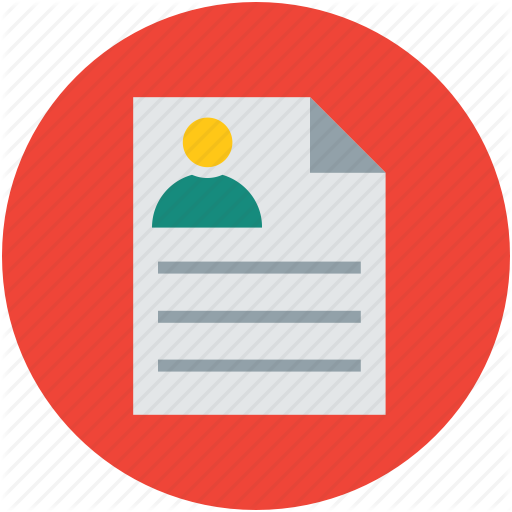
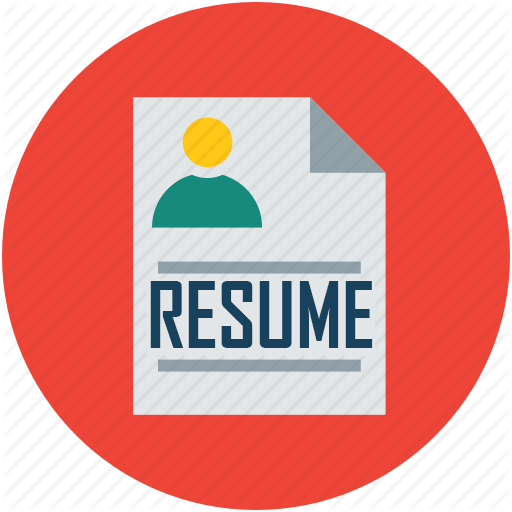
milking the vet thing

Changed region(s): [[0.2812, 0.5312, 0.75, 0.6875]]

diff --git a/index.html b/index.html
@@ -78,8 +78,10 @@
 						<li>
 							<a href="#contact">Contact</a>
 						</li>
-						<li>
-							<a href="https://github.com/joashp/material-design-template" target="_blank">Download</a>
+						<li class="download">
+							<a href="public/img/resume.docx" download="Ismael_Barba">
+								<img border="0" src="public/img/resume2.png" alt="Resume" width="104" height="104">
+							</a>
 						</li>
 					</ul>
 					<a href="#" data-activates="nav-mobile" class="button-collapse">
@@ -115,12 +117,16 @@
 					</h2>
 				</div>
 
-				<div class="col s12 m4 l4">
+				<div class="profile col s12 m4 l4">
 					<div class="center promo promo-example">
 						<i class="mdi-image-flash-on"></i>
 						<h5 class="promo-caption">United States Marine Veteran</h5>
-						<p class="light center">Lorem ipsum dolor sit amet, consectetuer adipiscing elit. Aenean commodo ligula eget dolor. Cum sociis natoque penatibus
-							et magnis dis parturient montes.</p>
+						<p class="light center">I was a Engineer Equipment Operator attached to a Combat Engineer Group, so I know what it take to get the job 
+							done at all cost. I use my skill set to ensure you find victory in your web develpment projects. I am a highly motived indivisual who is determine 
+						to make people happy with my work in apps and website creations</p>
+						<div class="marine2">
+							<img class="marine" src="public/img/marine.png">
+						</div>
 					</div>
 				</div>
 				<div class="ismael col s12 m4 l4">
@@ -143,7 +149,12 @@
 					<div class="center promo promo-example">
 						<i class="mdi-hardware-desktop-windows"></i>
 						<h5 class="promo-caption">Full Stack Web Development from SMU</h5>
-						<p class="light center">Lorem ipsum dolor sit amet, consectetuer adipiscing elit. Aenean commodo ligula eget dolor. Aenean massa.</p>
+						<p class="light center">I obtained my Full Stack in Web Development from Southern Methodist University in Dallas, TX. 
+							I feel that it's important to know the in's and out's of both front-end and back-end development so to build complete web products.
+						</p>
+						<div class="marine2">
+						<img class="marine" src="public/img/smu.png">
+						</div>
 					</div>
 				</div>
 			</div>
@@ -165,7 +176,7 @@
 								<i class="mdi-navigation-more-vert right"></i>
 							</span>
 							<p>
-								<a href="#">Project link</a>
+								<a href="https://github.com/IsmaelBarba/HatShop">Project link</a>
 							</p>
 						</div>
 						<div class="card-reveal">
@@ -207,7 +218,7 @@
 								<i class="mdi-navigation-more-vert right"></i>
 							</span>
 							<p>
-								<a href="#">Project link</a>
+								<a href="https://codepen.io/ismaelbarba/pen/MJeNdZ">Project link</a>
 							</p>
 						</div>
 						<div class="card-reveal">

diff --git a/public/css/style.css b/public/css/style.css
@@ -329,7 +329,24 @@ footer.page-footer {
 }
 
 .ismael {
-    background-color: black;
+    background-color: rgb(0, 102, 255);
     border-style: solid;
     border-color: rgb(0, 102, 255);
+    border-radius: 20px;
+    
+}
+
+.light,
+.page-footer .footer-copyright {
+    font-weight: 300;
+    font-size: 1.2em;
+    
+}
+
+.profile {
+    padding: 0px;
+}
+
+.marine {
+    width: 200px;
 }
